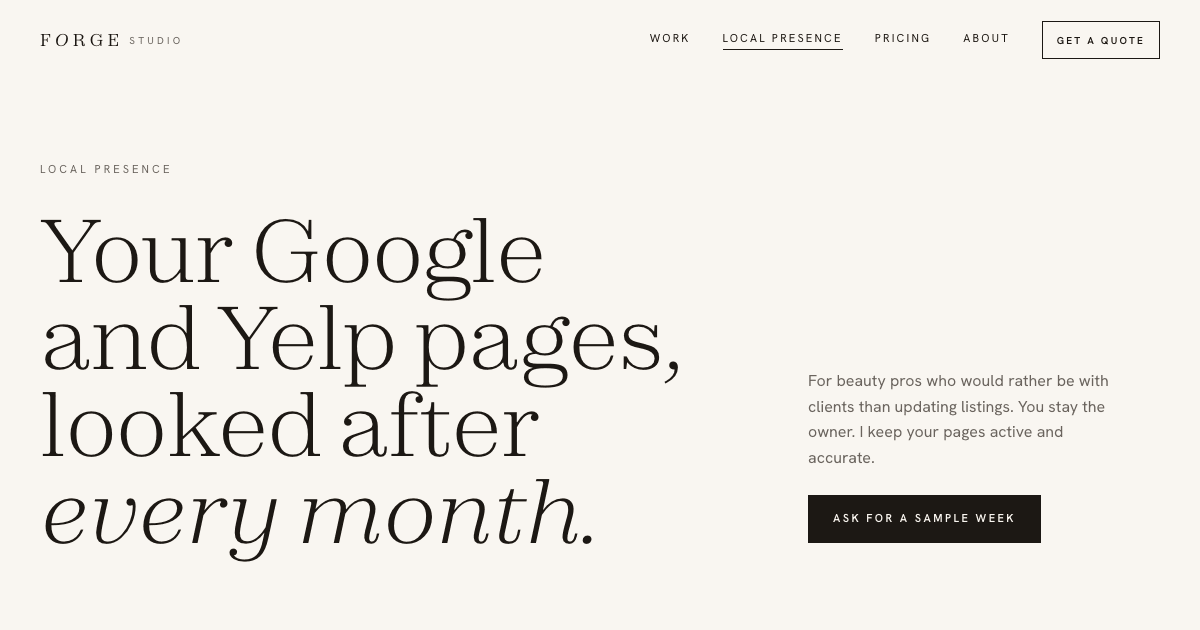
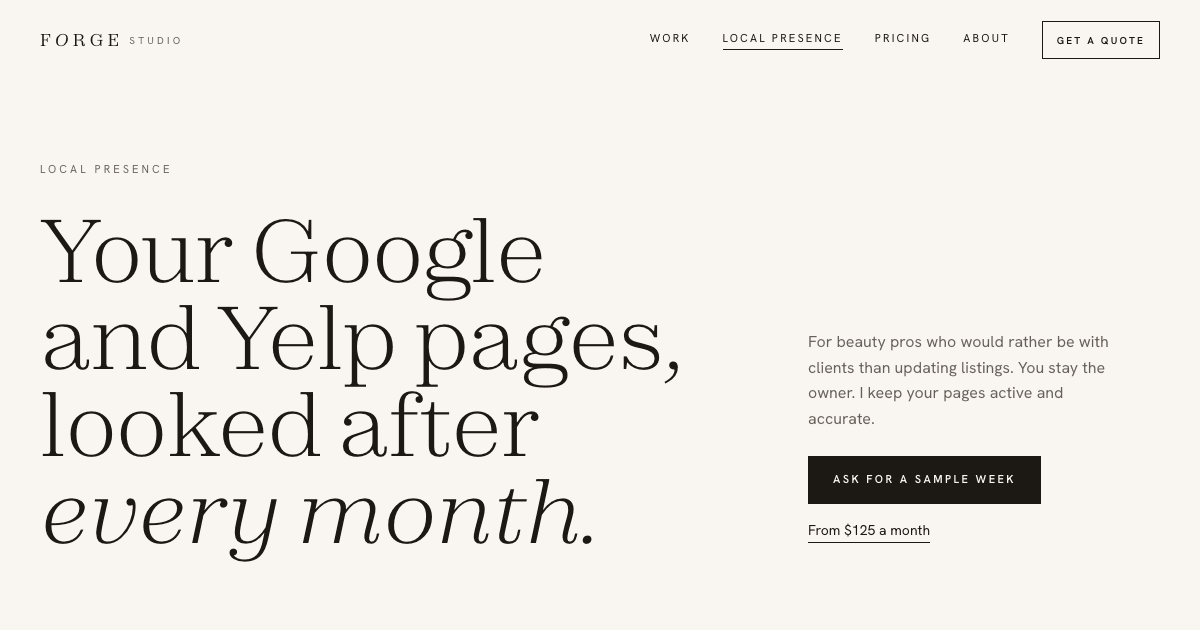
Local Presence page: final copy from the 19 Nov brief
Adds 'How it brings you more leads' (Google's own advice, checked against
support.google.com/business/answer/7091), the full What's included lists per
platform, and 'Who looks after it'. The photo-batch, weekly-review and
monthly-recommendation items are published because pricing.md carries them
as of 2026-11-19.

Changed region(s): [[0.6783, 0.5127, 0.925, 0.6937], [0.6475, 0.7238, 0.8942, 0.8746]]

diff --git a/app/local-presence/page.tsx b/app/local-presence/page.tsx
@@ -19,21 +19,36 @@ export const metadata: Metadata = {
 }
 
 const SAMPLE_WEEK = "/?interest=local-presence#contact"
+const GOOGLE_TIPS = "https://support.google.com/business/answer/7091"
 const GOOGLE_GUIDE = "https://support.google.com/business/answer/7163406"
 
-const google = [
-  "Up to four posts a month, made from your own photos",
-  "Photo updates",
-  "Replies to your reviews, drafted by me and approved by you",
-  "Your hours and details kept right",
-  "A monthly report of your numbers",
+// Copy is final (Local Presence brief, 19 Nov 2026). The photo-batch, weekly-review and
+// monthly-recommendation items are in docs/pricing.md as of 2026-11-19, so they are published.
+type Item = [lead: string, rest: string]
+
+const google: Item[] = [
+  ["Setup in your first week:", "a full review of your profile — categories, services and prices, description, hours, holiday hours, booking link and attributes — with every gap fixed. Your starting numbers are recorded before anything changes."],
+  ["Up to 4 posts a month,", "written from your own photos: a recent set or style, a service you want booked, an opening in your week, your holiday hours."],
+  ["Up to 2 photo batches a month,", "so the newest picture on your profile is always a recent one."],
+  ["Reviews checked every week.", "A reply is drafted for every new review, five-star or critical, sent to you, and posted only once you approve it."],
+  ["Details kept current:", "services and prices, hours, holiday hours, booking link and description, updated whenever something changes."],
+  ["A monthly report:", "profile views, calls, website clicks, direction requests and bookings, each compared with the month before."],
+  ["One recommendation a month:", "the single change most worth making next, such as a photo to take or a service to feature."],
 ]
-const yelp = [
-  "A monthly batch of photos",
-  "Your page's text and details kept right",
-  "Holiday hours kept right",
-  "Review replies written by me and posted by you",
-  "A monthly report of your numbers",
+
+const yelp: Item[] = [
+  ["Setup in your first week:", "a full review of your page — description, specialties, services, hours, holiday hours, links and booking information — with every gap fixed. Your starting numbers are recorded before anything changes."],
+  ["Up to 2 photo batches a month,", "each photo captioned with the service it shows."],
+  ["Reviews checked every week.", "A reply is written for every new review, ready for you to post from your own account, because Yelp shows the name of whoever posts it."],
+  ["Details kept current:", "description, specialties, hours, holiday hours and links, updated whenever something changes."],
+  ["A monthly report", "of the numbers Yelp gives you, each compared with the month before."],
+  ["One recommendation a month.", ""],
+]
+
+const why = [
+  "Google's own advice: businesses with complete and accurate information are more likely to show up in local search results.",
+  "Google also says that replying to reviews shows you value your clients' feedback, and that helpful replies can help a business stand out.",
+  "An answered review, glowing or critical, tells the next person reading that someone is paying attention.",
 ]
 
 const steps = [
@@ -49,6 +64,25 @@ const faqs = [
   ["What isn't included?", "Changes to your website, ad accounts, booking system setup, other platforms and blog posts."],
   ["What happens if I cancel?", "Give me 30 days' notice. I'll hand everything back and remove my access within 7 business days of the service ending."],
 ]
+
+function Included({ title, price, items }: { title: string; price: string; items: Item[] }) {
+  return (
+    <div className="reveal">
+      <div className="flex flex-wrap items-baseline justify-between gap-x-6 gap-y-1 pb-4">
+        <h3 className="s-h3">{title}</h3>
+        <p className="text-sm text-[var(--s-muted)] whitespace-nowrap">{price}</p>
+      </div>
+      <ul className="s-check border-t border-[var(--s-hair)]">
+        {items.map(([lead, rest]) => (
+          <li key={lead}>
+            <strong className="font-semibold">{lead}</strong>
+            {rest && <span className="text-[var(--s-muted)]"> {rest}</span>}
+          </li>
+        ))}
+      </ul>
+    </div>
+  )
+}
 
 export default function LocalPresencePage() {
   return (
@@ -68,33 +102,54 @@ export default function LocalPresencePage() {
               <p className="s-lede">
                 For beauty pros who would rather be with clients than updating listings. You stay the owner. I keep your pages active and accurate.
               </p>
-              <a href={SAMPLE_WEEK} className="s-btn s-btn-solid mt-6">Ask for a sample week</a>
+              <div className="flex flex-wrap items-center gap-x-6 gap-y-4 mt-6">
+                <a href={SAMPLE_WEEK} className="s-btn s-btn-solid">Ask for a sample week</a>
+                <a href="#price" className="s-textlink text-sm">From $125 a month</a>
+              </div>
             </div>
           </div>
         </section>
 
-        {/* What I do each month */}
-        <section className="s-wrap s-section s-rule" aria-labelledby="do-h2">
-          <h2 id="do-h2" className="s-h2 mb-12 md:mb-16">What I do each month</h2>
-          <div className="grid grid-cols-1 md:grid-cols-2 gap-x-16 gap-y-12">
-            {[
-              ["Google Business Profile", google],
-              ["Yelp", yelp],
-            ].map(([title, items]) => (
-              <div key={title as string} className="reveal">
-                <h3 className="s-h3 pb-4">{title as string}</h3>
-                <ul className="s-check border-t border-[var(--s-hair)]">
-                  {(items as string[]).map((i) => (
-                    <li key={i}>{i}</li>
-                  ))}
-                </ul>
-              </div>
-            ))}
+        {/* How it brings you more leads */}
+        <section className="s-wrap s-section s-rule" aria-labelledby="leads-h2">
+          <div className="grid grid-cols-1 md:grid-cols-12 gap-8">
+            <div className="md:col-span-5 reveal">
+              <h2 id="leads-h2" className="s-h2 mb-6">How it brings you more leads</h2>
+              <p className="s-body md:text-lg md:leading-relaxed text-[var(--s-ink)]">
+                An active, accurate profile with answered reviews gives more of the people who find you a reason to get in touch. Here&apos;s why:
+              </p>
+            </div>
+            <div className="md:col-span-6 md:col-start-7 reveal">
+              <ol className="flex flex-col">
+                {why.map((w, i) => (
+                  <li key={i} className="s-cell pb-6 flex gap-5">
+                    <span className="s-num pt-0.5">{String(i + 1).padStart(2, "0")}</span>
+                    <span className="s-body text-[var(--s-ink)]">{w}</span>
+                  </li>
+                ))}
+              </ol>
+              <a href={GOOGLE_TIPS} target="_blank" rel="noopener noreferrer" className="s-textlink text-sm">
+                Google&apos;s tips for your Business Profile
+              </a>
+            </div>
           </div>
         </section>
 
+        {/* What's included: the centre of the page */}
+        <section id="included" className="s-wrap s-section s-rule" aria-labelledby="inc-h2">
+          <h2 id="inc-h2" className="s-h2 mb-12 md:mb-16">What&apos;s included</h2>
+          <div className="grid grid-cols-1 md:grid-cols-2 gap-x-16 gap-y-14">
+            <Included title="Google Business Profile" price="$125 a month" items={google} />
+            <Included title="Yelp" price="$125 a month" items={yelp} />
+          </div>
+          <p className="reveal mt-12 border border-[var(--s-hair)] bg-[#fffdfa] px-6 py-5 text-[15px] leading-relaxed">
+            <strong className="font-semibold">Both platforms — $250 a month:</strong>{" "}
+            <span className="text-[var(--s-muted)]">everything above, with one combined monthly report.</span>
+          </p>
+        </section>
+
         {/* Price */}
-        <section className="s-wrap s-section s-rule" aria-labelledby="price-h2">
+        <section id="price" className="s-wrap s-section s-rule scroll-mt-16" aria-labelledby="price-h2">
           <h2 id="price-h2" className="s-h2 mb-12 md:mb-16">Price</h2>
           <div className="grid grid-cols-1 md:grid-cols-2 gap-6 max-w-4xl">
             {[
@@ -129,17 +184,21 @@ export default function LocalPresencePage() {
           <a href={SAMPLE_WEEK} className="s-btn s-btn-solid mt-12">Ask for a sample week</a>
         </section>
 
-        {/* What I won't promise, and proof */}
+        {/* What I won't promise */}
         <section className="s-wrap s-section s-rule" aria-labelledby="promise-h2">
           <div className="grid grid-cols-1 md:grid-cols-12 gap-8">
             <h2 id="promise-h2" className="s-h2 md:col-span-5 reveal">What I won&apos;t promise</h2>
             <p className="s-body md:col-span-6 md:col-start-7 md:text-lg md:leading-relaxed reveal">
-              Nobody can promise you a spot on Google, and I won&apos;t. Google decides the order of its results. What I can do is keep your profile active and accurate, and show you your own numbers every month.
+              Nobody can promise you a spot on Google or an exact number of new clients, and I won&apos;t. Google decides the order of its results. What I can do is keep your profile active and accurate, and show you your own numbers every month.
             </p>
           </div>
-          <div className="s-plate reveal mt-16 md:mt-24 px-6 py-10 md:px-16 md:py-14">
-            <p className="s-eyebrow mb-4">Proof</p>
-            <p className="s-quote">I manage the Yelp page for Sun&apos;s Nail Studio in Wilmington.</p>
+
+          {/* Who looks after it */}
+          <div className="s-plate reveal mt-16 md:mt-24 px-6 py-10 md:px-16 md:py-14 grid grid-cols-1 md:grid-cols-12 gap-6">
+            <h2 className="s-eyebrow md:col-span-3 pt-2">Who looks after it</h2>
+            <p className="s-quote text-[clamp(24px,3vw,40px)] md:col-span-9">
+              My websites for beauty studios are live in North Carolina and Colorado. Every month I also look after the Yelp page for Sun&apos;s Nail Studio in Wilmington: new photos, current details and holiday hours, and review replies.
+            </p>
           </div>
         </section>
 
